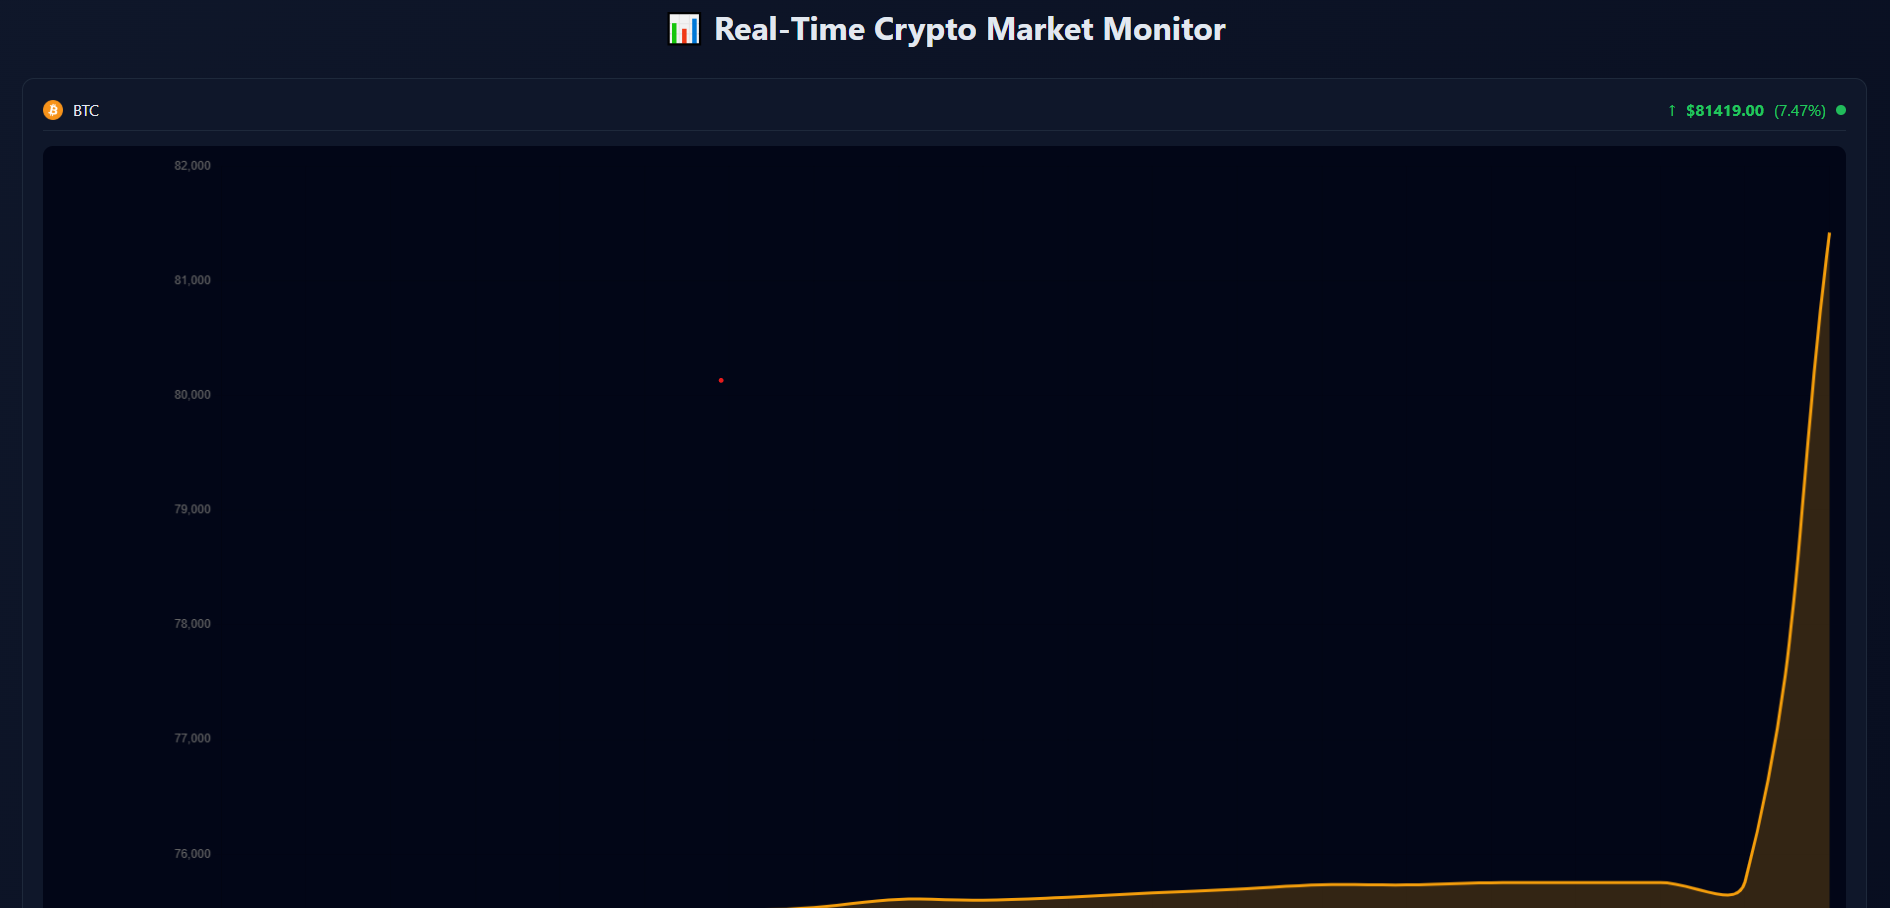
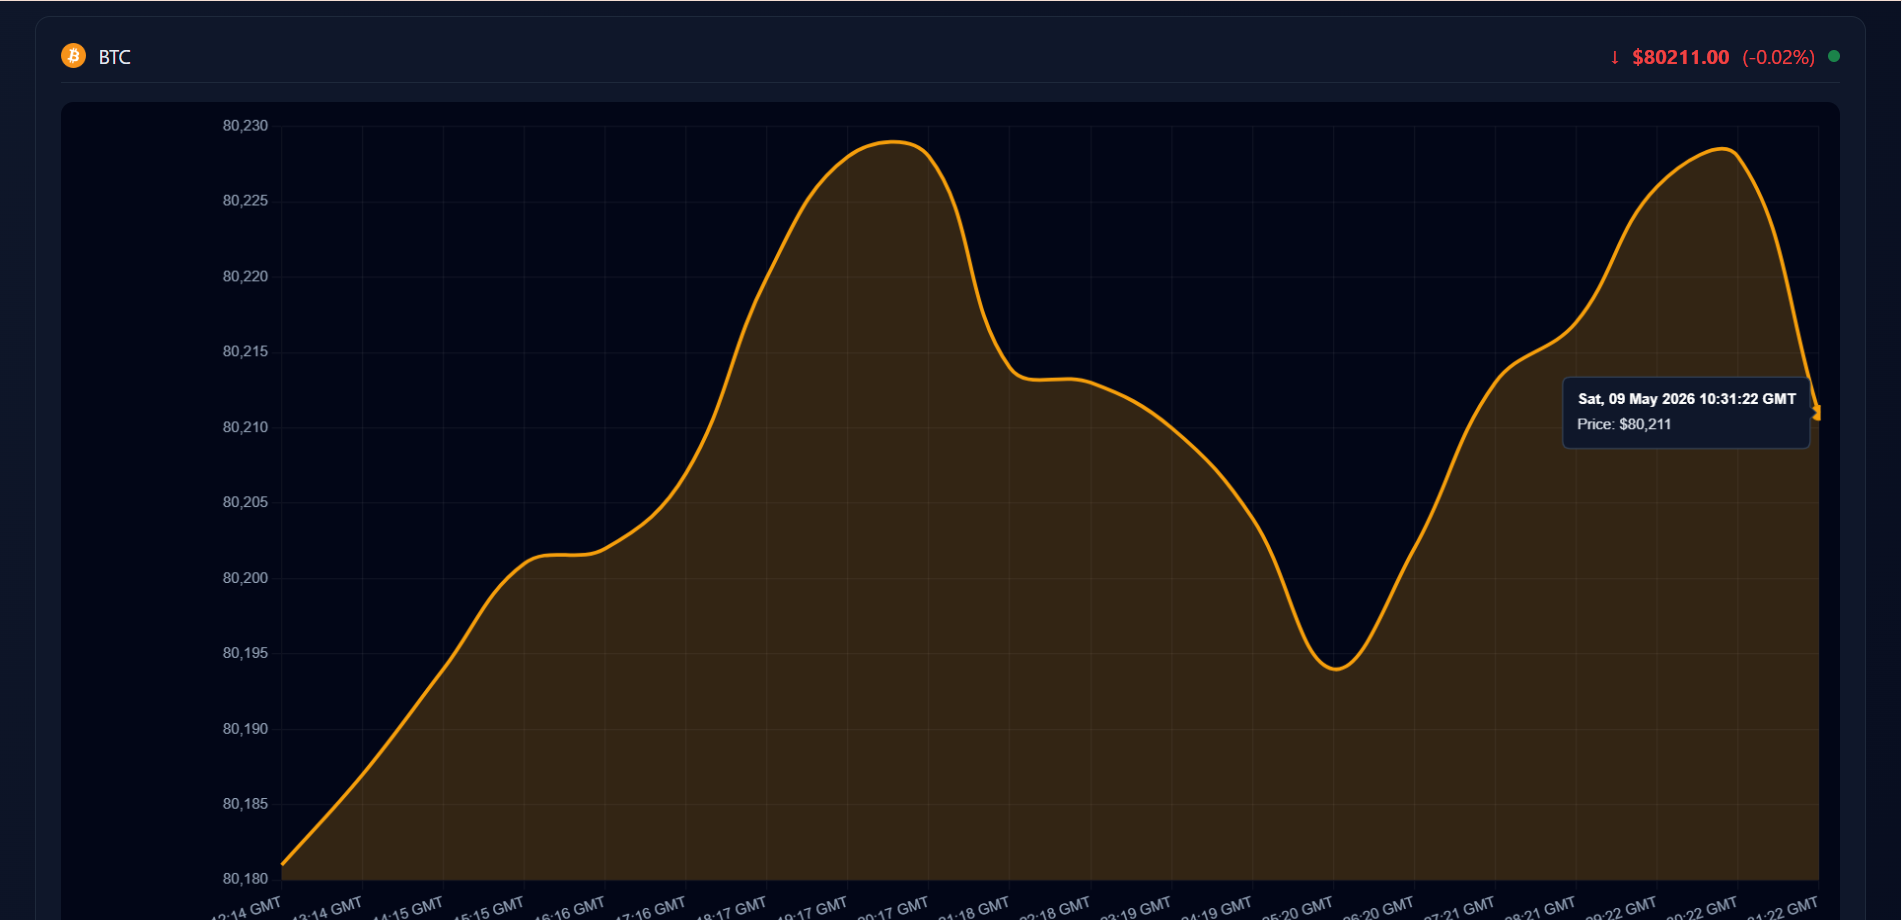
Fix README formatting (mermaid diagram)

diff --git a/dashboard-service/templates/index.html b/dashboard-service/templates/index.html
@@ -244,11 +244,65 @@ function createChart(id, color) {
                 backgroundColor: color + "33",
                 fill: true,
                 tension: 0.4,
-                pointRadius: 0
+                pointRadius: 0,
+                pointHoverRadius: 6,
+                pointHoverBackgroundColor: color
             }]
         },
         options: {
-            plugins: { legend: { display: false } }
+            responsive: true,
+            interaction: {
+                mode: 'index',
+                intersect: false
+            },
+
+            plugins: {
+                legend: {
+                    display: false
+                },
+
+                tooltip: {
+                    enabled: true,
+                    backgroundColor: "#0f172a",
+                    titleColor: "#ffffff",
+                    bodyColor: "#e2e8f0",
+                    borderColor: "#334155",
+                    borderWidth: 1,
+                    padding: 12,
+                    displayColors: false,
+
+                    callbacks: {
+                        label: function(context) {
+                            return "Price: $" + context.parsed.y.toLocaleString();
+                        }
+                    }
+                }
+            },
+
+            hover: {
+                mode: 'nearest',
+                intersect: false
+            },
+
+            scales: {
+                x: {
+                    ticks: {
+                        color: "#94a3b8"
+                    },
+                    grid: {
+                        color: "rgba(255,255,255,0.05)"
+                    }
+                },
+
+                y: {
+                    ticks: {
+                        color: "#94a3b8"
+                    },
+                    grid: {
+                        color: "rgba(255,255,255,0.05)"
+                    }
+                }
+            }
         }
     });
 }

diff --git a/README.md b/README.md
@@ -108,8 +108,10 @@ This project follows a microservices-based architecture:
 
 ## 📷 Screenshots
 
-### 🔹 Live Dashboard
+### 🔹 Live Dashboards
 ![Dashboard](screenshots/dashboard.png)
 
-### 🔹 Alert Popup
+![Dashboard](screenshots/dashboard1.png)
+
+### 🔹 Alert Table
 ![Alert](screenshots/alert.png)
